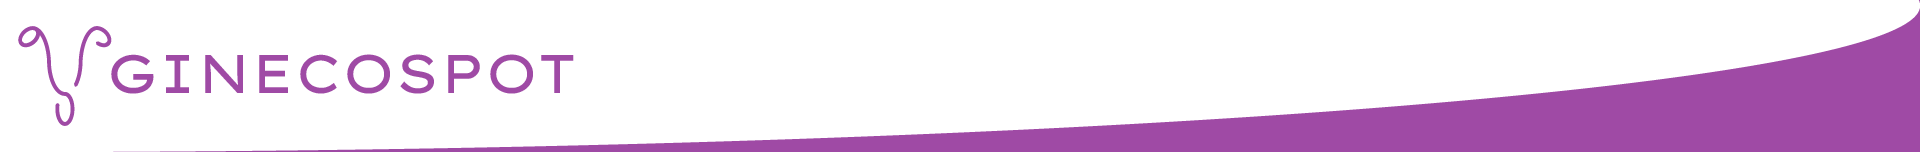
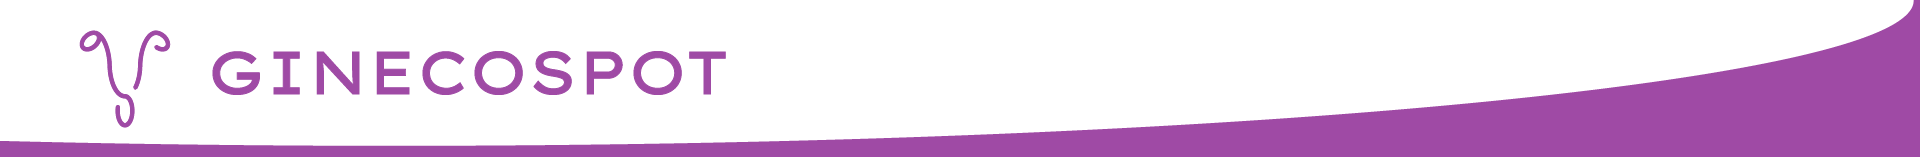
Corrección 2da Preentrega Proyecto Coder

diff --git a/index.html b/index.html
@@ -4,6 +4,7 @@
     <meta charset="UTF-8">
     <meta http-equiv="X-UA-Compatible" content="IE=edge">
     <meta name="viewport" content="width=device-width, initial-scale=1.0">
+    <link href="https://cdn.jsdelivr.net/npm/bootstrap@5.2.2/dist/css/bootstrap.min.css" rel="stylesheet" integrity="sha384-Zenh87qX5JnK2Jl0vWa8Ck2rdkQ2Bzep5IDxbcnCeuOxjzrPF/et3URy9Bv1WTRi" crossorigin="anonymous">
     <link rel="stylesheet" href="CSS/estilo.css">
     <link rel="preconnect" href="https://fonts.googleapis.com">
     <link rel="preconnect" href="https://fonts.gstatic.com" crossorigin>
@@ -12,29 +13,24 @@
     <title>Ginecospot</title>
 </head>
 <body>
-    <header>
-        <img id="banner" src="Multimedia/Header.png" alt="cabeza">
-    </header>
-    <nav>
-        <ul>
-            <li>
-                <a href="index.html">Home</a>
-            </li>
-            <li>
-                <a href="../Proyecto/HTML/Servicios.html">Servicios</a>
-            </li>
-            <li>
-                <a href="../Proyecto/HTML/Reserva.html">Reservá tu turno</a> 
-            </li>
-            <li>
-                <a href="../Proyecto/HTML/Blog.html">Blog</a>
-            </li>
-            <li>
-                <a href="../Proyecto/HTML/Contacto.html">Contacto</a>
-            </li>
-        </ul>
-
+    <nav class="navbar navbar-expand-lg bg-light">
+        <div class="container-fluid">
+            <img class="navbar-brand" src="./Multimedia/Recurso 1.png">
+            <button class="navbar-toggler" type="button" data-bs-toggle="collapse" data-bs-target="#navbarNavAltMarkup" aria-controls="navbarNavAltMarkup" aria-expanded="false" aria-label="Toggle navigation">
+            <span class="navbar-toggler-icon"></span>
+            </button>
+            <div class="collapse navbar-collapse" id="navbarNavAltMarkup">
+                <div class="navbar-nav">
+                    <a class="nav-link active" aria-current="page" href="index.html">Home</a>
+                    <a class="nav-link" href="./html/Servicios.html">Servicios</a>
+                    <a class="nav-link" href="./html/Blog.html">Blog</a>
+                    <a class="nav-link" href="./html/Reserva.html">Turnos</a>
+                    <a class="nav-link" href="./html/Contacto.html">Contactos</a>
+                </div>
+            </div>
+        </div>
     </nav>
+
     <Main>
     
     
@@ -47,5 +43,7 @@
     </Footer>
 
     <script src="https://kit.fontawesome.com/5e395e6272.js" crossorigin="anonymous"></script>
+    <script src="https://cdn.jsdelivr.net/npm/bootstrap@5.2.2/dist/js/bootstrap.bundle.min.js" integrity="sha384-OERcA2EqjJCMA+/3y+gxIOqMEjwtxJY7qPCqsdltbNJuaOe923+mo//f6V8Qbsw3" crossorigin="anonymous"></script>
+
 </body>
 </html>

diff --git a/html/Servicios.html b/html/Servicios.html
@@ -5,6 +5,7 @@
     <meta http-equiv="X-UA-Compatible" content="IE=edge">
     <meta name="viewport" content="width=device-width, initial-scale=1.0">
     <link rel="shortcut icon" href="../Multimedia/favicon-32x32.png">
+    <link href="https://cdn.jsdelivr.net/npm/bootstrap@5.2.2/dist/css/bootstrap.min.css" rel="stylesheet" integrity="sha384-Zenh87qX5JnK2Jl0vWa8Ck2rdkQ2Bzep5IDxbcnCeuOxjzrPF/et3URy9Bv1WTRi" crossorigin="anonymous">
     <link rel="stylesheet" href="../CSS/estilo.css">
     <link rel="preconnect" href="https://fonts.googleapis.com">
     <link rel="preconnect" href="https://fonts.gstatic.com" crossorigin>
@@ -12,32 +13,24 @@
     <title>Ginecospot - Servicios</title>
 </head>
 <body>
-    <header>
-        <img id="banner" src="../Multimedia/Header.png" alt="cabeza">
-    </header>
-    <nav>
-        <ul>
-            <li>
-                <a href="../index.html">Home</a>
-            </li>
-            <li>
-                <a href="Servicios.html">Servicios</a>
-            </li>
-            <li>
-                <a href="Reserva.html">Reservá tu turno</a> 
-            </li>
-            <li>
-                <a href="Blog.html">Blog</a>
-            </li>
-            <li>
-                <a href="Contacto.html">Contacto</a>
-            </li>
-        </ul>
-
-
-
-
+    <nav class="navbar navbar-expand-lg bg-light">
+        <div class="container-fluid">
+            <img class="navbar-brand" src="../Multimedia/Recurso 1.png">
+            <button class="navbar-toggler" type="button" data-bs-toggle="collapse" data-bs-target="#navbarNavAltMarkup" aria-controls="navbarNavAltMarkup" aria-expanded="false" aria-label="Toggle navigation">
+            <span class="navbar-toggler-icon"></span>
+            </button>
+            <div class="collapse navbar-collapse" id="navbarNavAltMarkup">
+                <div class="navbar-nav">
+                    <a class="nav-link active" aria-current="page" href="../index.html">Home</a>
+                    <a class="nav-link" href="./Servicios.html">Servicios</a>
+                    <a class="nav-link" href="./Blog.html">Blog</a>
+                    <a class="nav-link" href="./Reserva.html">Turnos</a>
+                    <a class="nav-link" href="./Contacto.html">Contactos</a>
+                </div>
+            </div>
+        </div>
     </nav>
+
     <Main>
 
 
@@ -52,5 +45,7 @@
     </Footer>
 
     <script src="https://kit.fontawesome.com/5e395e6272.js" crossorigin="anonymous"></script>
+    <script src="https://cdn.jsdelivr.net/npm/bootstrap@5.2.2/dist/js/bootstrap.bundle.min.js" integrity="sha384-OERcA2EqjJCMA+/3y+gxIOqMEjwtxJY7qPCqsdltbNJuaOe923+mo//f6V8Qbsw3" crossorigin="anonymous"></script>
+
 </body>
 </html>

diff --git a/html/Blog.html b/html/Blog.html
@@ -4,6 +4,7 @@
     <meta charset="UTF-8">
     <meta http-equiv="X-UA-Compatible" content="IE=edge">
     <meta name="viewport" content="width=device-width, initial-scale=1.0">
+    <link href="https://cdn.jsdelivr.net/npm/bootstrap@5.2.2/dist/css/bootstrap.min.css" rel="stylesheet" integrity="sha384-Zenh87qX5JnK2Jl0vWa8Ck2rdkQ2Bzep5IDxbcnCeuOxjzrPF/et3URy9Bv1WTRi" crossorigin="anonymous">
     <link rel="stylesheet" href="../CSS/estilo.css">
     <link rel="preconnect" href="https://fonts.googleapis.com">
     <link rel="preconnect" href="https://fonts.gstatic.com" crossorigin>
@@ -12,32 +13,24 @@
     <title>Ginecospot - Blog</title>
 </head>
 <body>
-    <header>
-        <img id="banner" src="../Multimedia/Header.png" alt="cabeza">
-    </header>
-    <nav>
-        <ul>
-            <li>
-                <a href="../index.html">Home</a>
-            </li>
-            <li>
-                <a href="Servicios.html">Servicios</a>
-            </li>
-            <li>
-                <a href="Reserva.html">Reservá tu turno</a> 
-            </li>
-            <li>
-                <a href="Blog.html">Blog</a>
-            </li>
-            <li>
-                <a href="Contacto.html">Contacto</a>
-            </li>
-        </ul>
-
-
-
-
+    <nav class="navbar navbar-expand-lg bg-light">
+        <div class="container-fluid">
+            <img class="navbar-brand" src="../Multimedia/Recurso 1.png">
+            <button class="navbar-toggler" type="button" data-bs-toggle="collapse" data-bs-target="#navbarNavAltMarkup" aria-controls="navbarNavAltMarkup" aria-expanded="false" aria-label="Toggle navigation">
+            <span class="navbar-toggler-icon"></span>
+            </button>
+            <div class="collapse navbar-collapse" id="navbarNavAltMarkup">
+                <div class="navbar-nav">
+                    <a class="nav-link active" aria-current="page" href="../index.html">Home</a>
+                    <a class="nav-link" href="./Servicios.html">Servicios</a>
+                    <a class="nav-link" href="./Blog.html">Blog</a>
+                    <a class="nav-link" href="./Reserva.html">Turnos</a>
+                    <a class="nav-link" href="./Contacto.html">Contactos</a>
+                </div>
+            </div>
+        </div>
     </nav>
+
     <Main id="blog">
 
     
@@ -50,5 +43,7 @@
     </Footer>
 
     <script src="https://kit.fontawesome.com/5e395e6272.js" crossorigin="anonymous"></script>
+    <script src="https://cdn.jsdelivr.net/npm/bootstrap@5.2.2/dist/js/bootstrap.bundle.min.js" integrity="sha384-OERcA2EqjJCMA+/3y+gxIOqMEjwtxJY7qPCqsdltbNJuaOe923+mo//f6V8Qbsw3" crossorigin="anonymous"></script>
+
 </body>
 </html>

diff --git a/html/Contacto.html b/html/Contacto.html
@@ -4,6 +4,7 @@
     <meta charset="UTF-8">
     <meta http-equiv="X-UA-Compatible" content="IE=edge">
     <meta name="viewport" content="width=device-width, initial-scale=1.0">
+    <link href="https://cdn.jsdelivr.net/npm/bootstrap@5.2.2/dist/css/bootstrap.min.css" rel="stylesheet" integrity="sha384-Zenh87qX5JnK2Jl0vWa8Ck2rdkQ2Bzep5IDxbcnCeuOxjzrPF/et3URy9Bv1WTRi" crossorigin="anonymous">
     <link rel="stylesheet" href="../CSS/estilo.css">
     <link rel="preconnect" href="https://fonts.googleapis.com">
     <link rel="preconnect" href="https://fonts.gstatic.com" crossorigin>
@@ -12,27 +13,22 @@
     <title>Ginecospot - Contacto</title>
 </head>
 <body>
-    <header>
-        <img id="banner" src="../Multimedia/Header.png" alt="cabeza">
-    </header>
-    <nav>
-        <ul>
-            <li>
-                <a href="../index.html">Home</a>
-            </li>
-            <li>
-                <a href="Servicios.html">Servicios</a>
-            </li>
-            <li>
-                <a href="Reserva.html">Reservá tu turno</a> 
-            </li>
-            <li>
-                <a href="Blog.html">Blog</a>
-            </li>
-            <li>
-                <a href="Contacto.html">Contacto</a>
-            </li>
-        </ul>
+    <nav class="navbar navbar-expand-lg bg-light">
+        <div class="container-fluid">
+            <img class="navbar-brand" src="../Multimedia/Recurso 1.png">
+            <button class="navbar-toggler" type="button" data-bs-toggle="collapse" data-bs-target="#navbarNavAltMarkup" aria-controls="navbarNavAltMarkup" aria-expanded="false" aria-label="Toggle navigation">
+            <span class="navbar-toggler-icon"></span>
+            </button>
+            <div class="collapse navbar-collapse" id="navbarNavAltMarkup">
+                <div class="navbar-nav">
+                    <a class="nav-link active" aria-current="page" href="../index.html">Home</a>
+                    <a class="nav-link" href="./Servicios.html">Servicios</a>
+                    <a class="nav-link" href="./Blog.html">Blog</a>
+                    <a class="nav-link" href="./Reserva.html">Turnos</a>
+                    <a class="nav-link" href="./Contacto.html">Contactos</a>
+                </div>
+            </div>
+        </div>
     </nav>
 
     <Main id="contacto">
@@ -61,7 +57,7 @@
     </Footer>
 
     <script src="https://kit.fontawesome.com/5e395e6272.js" crossorigin="anonymous"></script>
-
+    <script src="https://cdn.jsdelivr.net/npm/bootstrap@5.2.2/dist/js/bootstrap.bundle.min.js" integrity="sha384-OERcA2EqjJCMA+/3y+gxIOqMEjwtxJY7qPCqsdltbNJuaOe923+mo//f6V8Qbsw3" crossorigin="anonymous"></script>
 
 </body>
 </html>

diff --git a/html/Reserva.html b/html/Reserva.html
@@ -14,36 +14,28 @@
 
 </head>
 <body>
-    <header>
-        <img id="banner" src="../Multimedia/Header.png" alt="cabeza">
-    </header>
-    <nav>
-        <ul>
-            <li>
-                <a href="../index.html">Home</a>
-            </li>
-            <li>
-                <a href="Servicios.html">Servicios</a>
-            </li>
-            <li>
-                <a href="Reserva.html">Reservá tu turno</a> 
-            </li>
-            <li>
-                <a href="Blog.html">Blog</a>
-            </li>
-            <li>
-                <a href="Contacto.html">Contacto</a>
-            </li>
-        </ul>
-
-
-
+    <nav class="navbar navbar-expand-lg bg-light">
+        <div class="container-fluid">
+            <img class="navbar-brand" src="../Multimedia/Recurso 1.png">
+            <button class="navbar-toggler" type="button" data-bs-toggle="collapse" data-bs-target="#navbarNavAltMarkup" aria-controls="navbarNavAltMarkup" aria-expanded="false" aria-label="Toggle navigation">
+            <span class="navbar-toggler-icon"></span>
+            </button>
+            <div class="collapse navbar-collapse" id="navbarNavAltMarkup">
+                <div class="navbar-nav">
+                    <a class="nav-link active" aria-current="page" href="../index.html">Home</a>
+                    <a class="nav-link" href="./Servicios.html">Servicios</a>
+                    <a class="nav-link" href="./Blog.html">Blog</a>
+                    <a class="nav-link" href="./Reserva.html">Turnos</a>
+                    <a class="nav-link" href="./Contacto.html">Contactos</a>
+                </div>
+            </div>
+        </div>
     </nav>
     <Main id="reservas">
         <h1 class="reservatu">Reserva de turnos</h1>
 
-        <form action="">
-
+        <form class="formulario" action="">
+            
             <div>
                 <label for="nombre">Nombre</label>
                 <input type="text" placeholder="ingrese su nombre" id="nombre">
@@ -85,6 +77,7 @@
                 <label for="Hora">Escoger horario</label>
                 <input type="time" id="Hora">
             </div>
+            <br>
             <div>
                 <input type="checkbox">
                 <label for="aceptar">Acepto términos y condiciones de Ginecospot</label>

diff --git a/css/estilo.css b/css/estilo.css
@@ -2,32 +2,21 @@ body{
     margin: 0;
     padding: 0;
 }
+header{
+    line-height: 0;
+}
 #banner{
     height: auto;
     width: 100%;
 }
-nav{
-    background-color: #9f4aa5;
-    height: auto;
-    width: 100%;
-    margin: 0px;
+.navbar-brand{
+    height: 110px;
+    padding: 0;
+    margin-right: 30px;
 
 }
-
-ul{
-    height: 50px;
-    display: flex;
-    flex-direction: row;
-    flex-wrap: nowrap;
-    justify-content: space-evenly;
-    align-items: center;
-    margin: 0;
-}
-a{
-    color: white;
-    font-family: 'Lexend', sans-serif;
-    font-size: large;
-    text-decoration: none;
+.nav-link{
+    color: #9f4aa5;
 }
 
 Main{
@@ -70,6 +59,7 @@ button{
     justify-items: center;
     text-align: center;
     height: 625px;
+    border-bottom: #9f4aa5;
     
 }
 #contactcontact{
@@ -149,6 +139,13 @@ footer{
     footer{
         height: 75px;
     }
+    .navbar-brand{
+        width: 215px;
+        height: 60px;
+        padding-top: 0px;
+        padding-bottom: 0px;
+        margin-right: 0px;
+    }
     .button i{
         text-decoration: none;
         font-size: 20px;
@@ -160,11 +157,8 @@ footer{
         color:#9f4aa5;
         transition: all .4s ease-in-out;
         }
-    
-    ul{
-        flex-direction: column;
-        height: auto;
-        align-items: flex-start;
+    .formulario{
+        font-size: 14px;
     }
 
     a{
